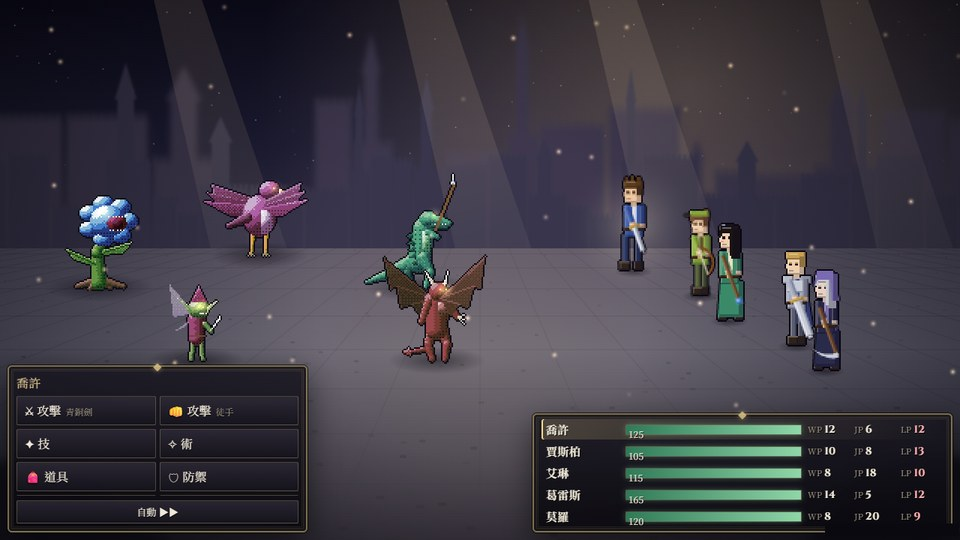
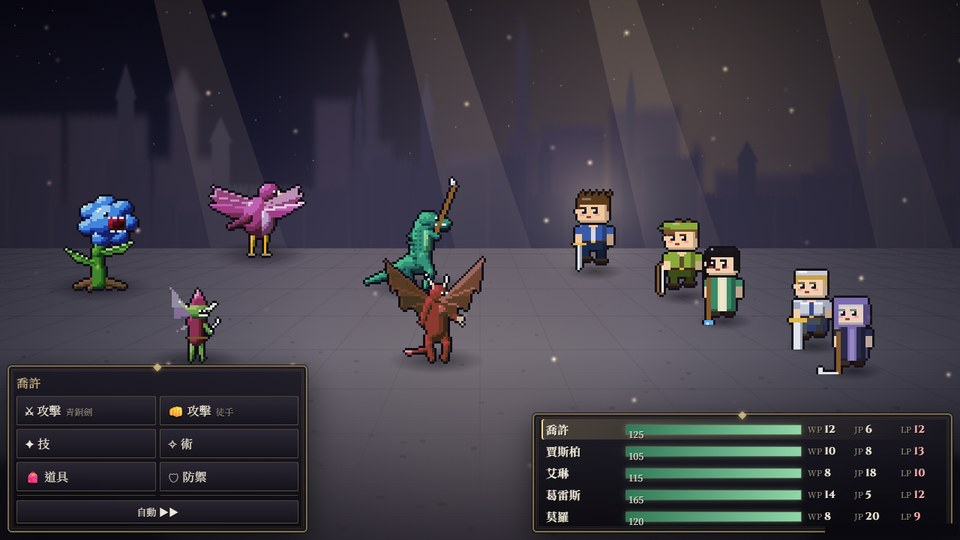
Eightfold Saga: chibi-style thumbnail

diff --git a/games.js b/games.js
@@ -13,7 +13,7 @@ window.GAMES = [
   {
     id: 'eightfold',
     url: '/eightfold-saga/',
-    thumb: 'thumbs/eightfold.jpg?v=4',
+    thumb: 'thumbs/eightfold.jpg?v=5',
     color: '#5a3a9a',
     genres: ['rpg', 'strategy'],
     devices: ['keyboard', 'touch'],
